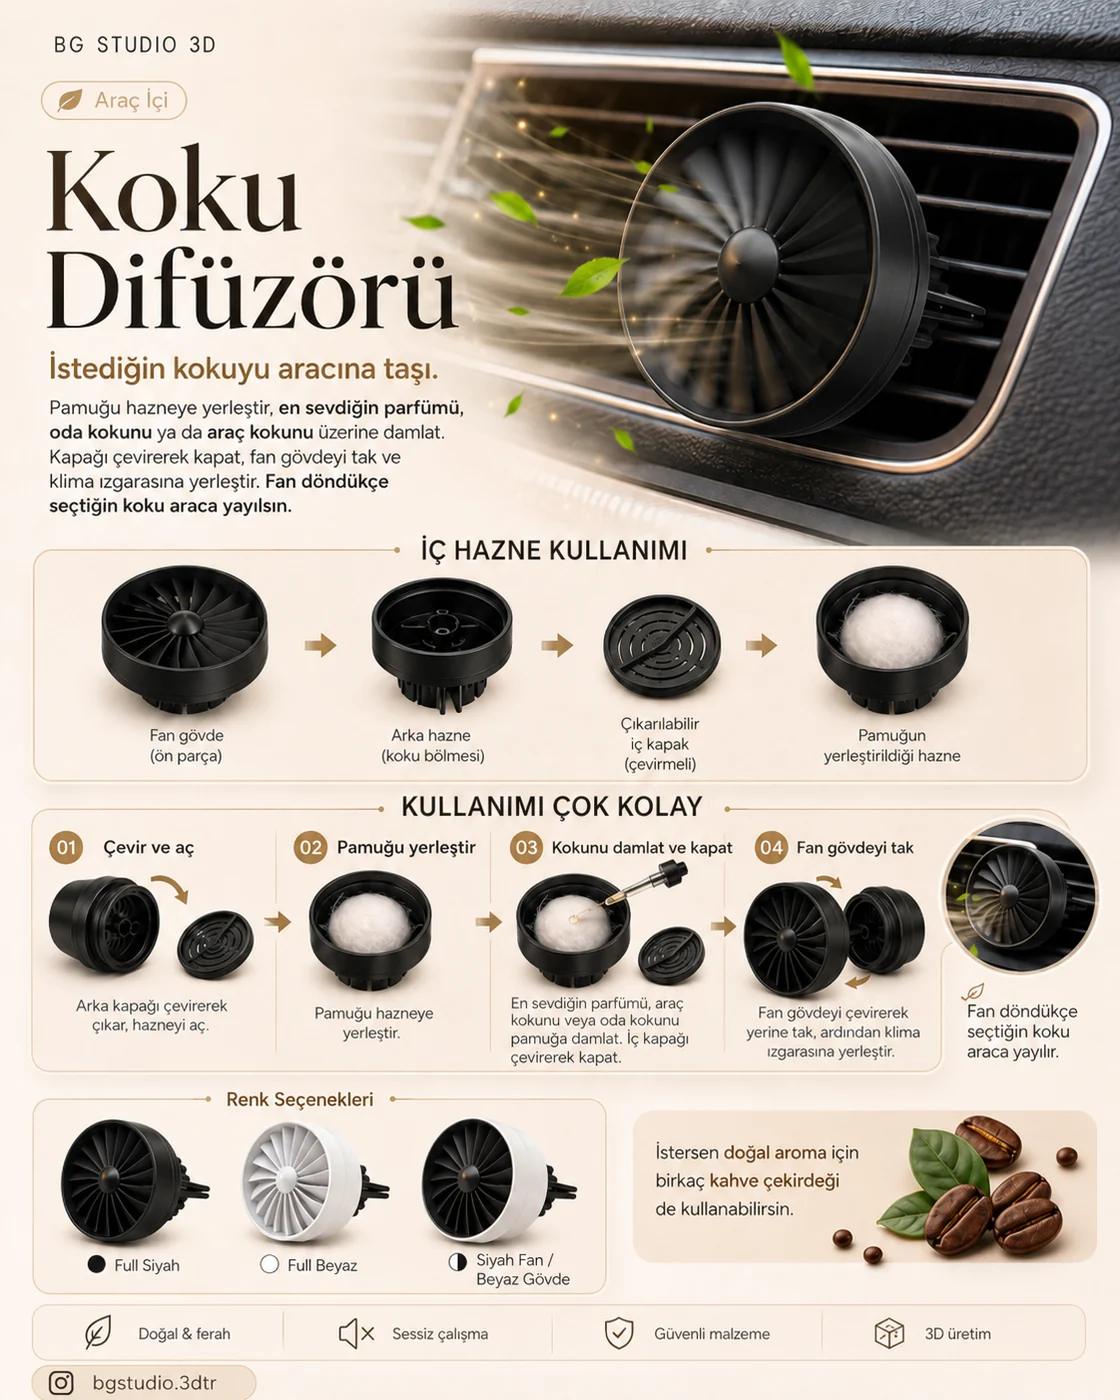
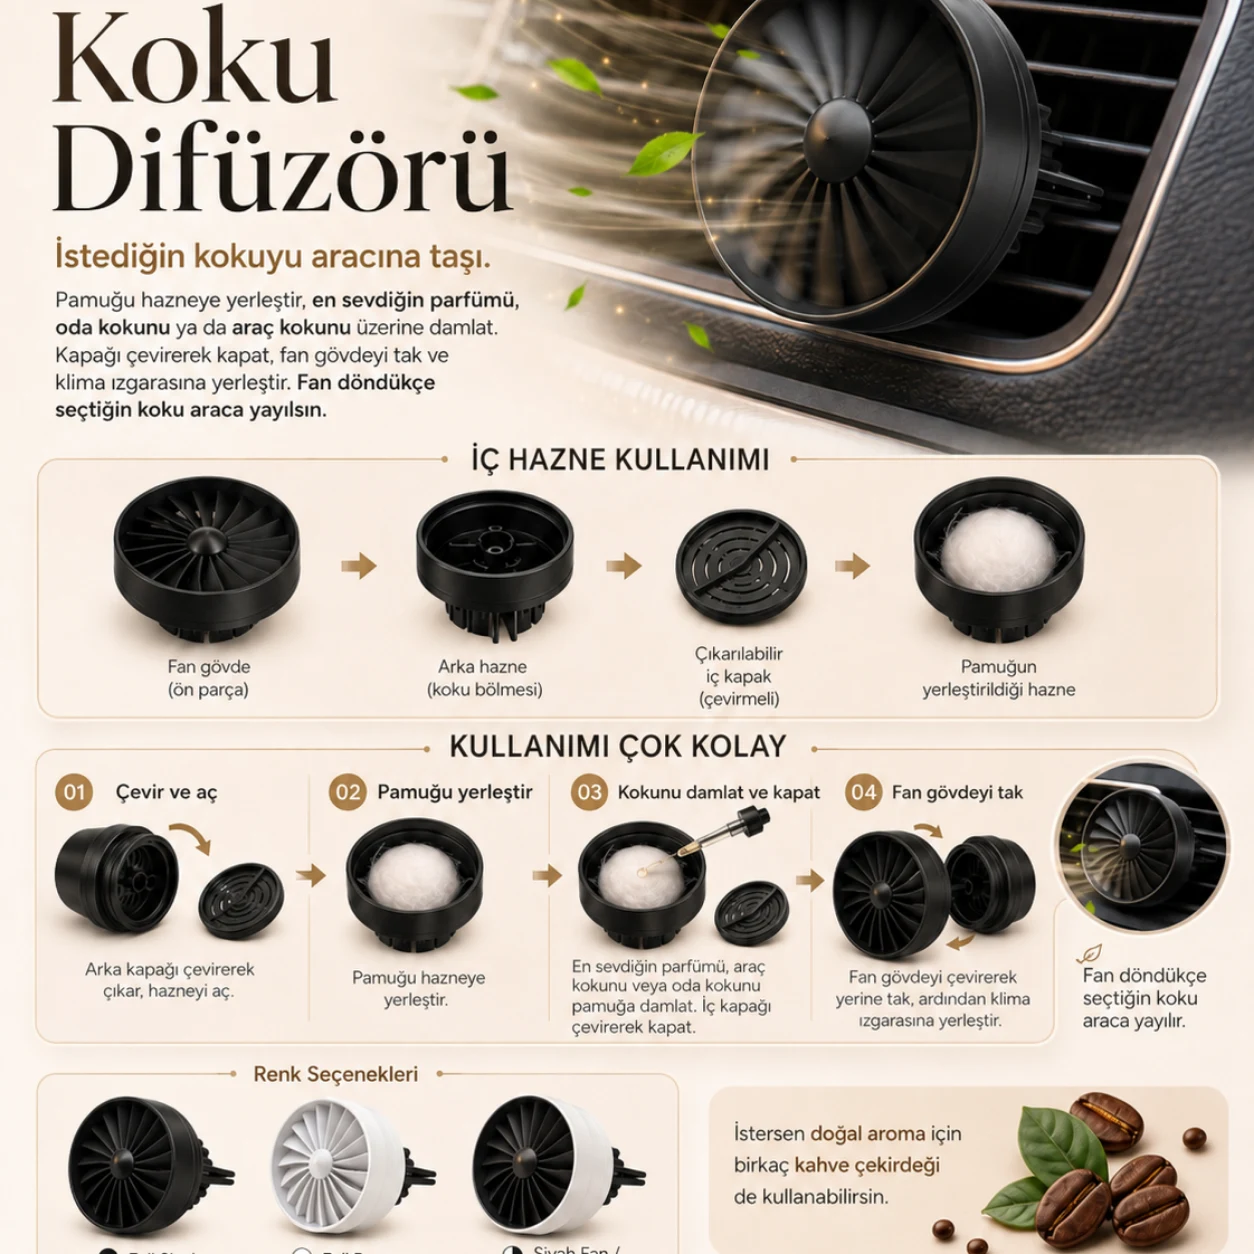
a

diff --git a/urunler/arac-koku-difuzoru/index.html b/urunler/arac-koku-difuzoru/index.html
@@ -14,7 +14,7 @@
 </head><body><a class="skip-link" href="#main-content">İçeriğe geç</a>
 <header class="site-header" id="top"><div class="shell nav-shell"><a aria-label="BG Studio 3D ana sayfa" class="brand" href="../../"><span class="brand-monogram">BG</span><span class="brand-text"><strong>STUDIO</strong><small>3DTR</small></span></a><button aria-controls="primary-navigation" aria-expanded="false" aria-label="Menüyü aç" class="menu-toggle" type="button"><span></span><span></span></button><nav aria-label="Ana menü" class="main-nav" id="primary-navigation"><a aria-current="page" class="is-active" href="../../urunler/">Ürünler</a><a href="../../ozel-uretim/">Özel Üretim</a><a href="../../kurumsal/">Kurumsal</a><a href="../../nfc-qr/">NFC &amp; QR</a><a href="../../hakkimizda/">Hakkımızda</a><a href="../../iletisim/">İletişim</a><a class="arch-link" href="https://bgstudio.com.tr" rel="noopener" target="_blank">Architecture ↗</a><a class="nav-cta" href="https://wa.me/905302466903" rel="noopener" target="_blank">WhatsApp</a></nav></div></header>
 
-<main id="main-content"><section class="product-detail shell"><div class="breadcrumb"><a href="../../">Ana Sayfa</a><span>/</span><a href="../">Ürünler</a><span>/</span><span>Araç Koku Difüzörü</span></div><div class="product-detail-grid"><div class="product-gallery"><div aria-label="Seçili ürün görselini büyüt" class="gallery-stage zoomable-media" data-gallery-stage="" role="button" tabindex="0"><img alt="Araç Koku Difüzörü" data-gallery-main="" decoding="async" height="760" src="../../assets/images/products/arac-koku-difuzoru.webp" width="1000"/></div><div aria-label="Ürün görselleri" class="gallery-thumbs"><button aria-label="Ürün görselini göster" aria-pressed="true" class="gallery-thumb active" data-gallery-alt="Araç Koku Difüzörü" data-gallery-src="../../assets/images/products/arac-koku-difuzoru.webp" type="button"><img alt="Araç Koku Difüzörü" decoding="async" height="760" loading="lazy" src="../../assets/images/products/arac-koku-difuzoru.webp" width="1000"/><span>Ürün</span></button><button aria-label="Afiş görselini göster" aria-pressed="false" class="gallery-thumb" data-gallery-alt="Araç Koku Difüzörü ürün afişi" data-gallery-src="../../assets/images/posters/arac-koku-difuzoru.webp" type="button"><img alt="Araç Koku Difüzörü ürün afişi" decoding="async" height="1400" loading="lazy" src="../../assets/images/posters/arac-koku-difuzoru.webp" width="1120"/><span>Afiş</span></button></div><p class="gallery-hint">Görseli büyütmek için ana görsele tıkla.</p></div>
+<main id="main-content"><section class="product-detail shell"><div class="breadcrumb"><a href="../../">Ana Sayfa</a><span>/</span><a href="../">Ürünler</a><span>/</span><span>Araç Koku Difüzörü</span></div><div class="product-detail-grid"><div class="product-gallery"><div aria-label="Seçili ürün görselini büyüt" class="gallery-stage zoomable-media" data-gallery-stage="" role="button" tabindex="0"><img alt="Araç Koku Difüzörü" data-gallery-main="" decoding="async" height="760" src="../../assets/images/products/arac-koku-difuzoru.webp" width="1000"/></div><div aria-label="Ürün görselleri" class="gallery-thumbs"><button aria-label="Ürün görselini göster" aria-pressed="true" class="gallery-thumb active" data-gallery-alt="Araç Koku Difüzörü" data-gallery-src="../../assets/images/products/arac-koku-difuzoru.webp" type="button"><img alt="Araç Koku Difüzörü" decoding="async" height="760" loading="lazy" src="../../assets/images/products/arac-koku-difuzoru.webp" width="1000"/><span>Ürün</span></button><button aria-label="Afiş görselini göster" aria-pressed="false" class="gallery-thumb" data-gallery-alt="Araç Koku Difüzörü ürün afişi" data-gallery-src="../../assets/images/posters/arac-koku-difuzoru.webp" type="button"><img alt="Araç Koku Difüzörü ürün afişi" decoding="async" height="1254" loading="lazy" src="../../assets/images/posters/arac-koku-difuzoru.webp" width="1254"/><span>Afiş</span></button></div><p class="gallery-hint">Görseli büyütmek için ana görsele tıkla.</p></div>
 <div class="product-info"><p class="eyebrow">FONKSIYONEL</p><h1>Araç Koku Difüzörü</h1><p class="product-lead">Pamuk haznesine parfüm, oda kokusu veya araç kokusu damlatılarak kullanılan; fan döndükçe kokuyu araç içine yaymaya yardımcı olan 3D baskı difüzör.</p><div class="price-block"><small>Fiyat</small><strong>239 TL’den</strong></div><div class="order-configurator" data-order-config="" data-product-name="Araç Koku Difüzörü" data-product-price="239 TL’den"><div class="order-config-head"><strong>Siparişini hazırla</strong><span>Seçimini yap, mesajı hazır gönder.</span></div><div class="order-controls"><label class="order-field"><span>Seçenek</span><select aria-label="Ürün seçeneği" data-order-option=""><option value="Full Siyah">Full Siyah</option><option value="Full Beyaz">Full Beyaz</option><option value="Siyah Fan / Beyaz Gövde">Siyah Fan / Beyaz Gövde</option></select></label><div class="order-field"><span>Adet</span><div class="qty-stepper"><button aria-label="Adedi azalt" data-qty-minus="" type="button">−</button><input aria-label="Adet" data-order-qty="" max="99" min="1" type="number" value="1"/><button aria-label="Adedi artır" data-qty-plus="" type="button">+</button></div></div></div><label class="order-field order-note-field"><span>Not (isteğe bağlı)</span><input data-order-note="" maxlength="160" placeholder="Örn. siyah renk, hediye olacak…" type="text"/></label><div class="order-summary"><span>Seçim:</span><strong data-order-summary="">Full Siyah • 1 adet</strong></div><a class="primary-cta wide-cta smart-order-whatsapp" data-order-whatsapp="" href="#" rel="noopener" target="_blank">Seçimi WhatsApp’tan gönder ↗</a><p class="order-local-note">Seçimin site üzerinde kaydedilmez; yalnızca WhatsApp mesajını hazırlamak için kullanılır.</p></div><div class="product-action-row share-only-row"><button class="secondary-cta share-product" data-share-title="Araç Koku Difüzörü" type="button">Ürün linkini paylaş</button></div><div class="detail-note">📍 Kuşadası elden teslim   •   📦 Türkiye geneli kargo</div><div class="product-facts"><div><small>Üretim</small><strong>3D baskı</strong></div><div><small>Teslim</small><strong>Kuşadası / kargo</strong></div><div><small>Seçenek</small><strong>Ürüne göre</strong></div><div><small>Sipariş</small><strong>WhatsApp</strong></div></div><div class="detail-section"><h2>Öne çıkan özellikler</h2><ul><li>Çıkarılabilir iç kapak</li><li>Pamuk haznesi</li><li>Klima ızgarasına montaj</li><li>Tek renk 239 TL / çift renk 249 TL</li></ul></div><div class="detail-section"><h2>Renk / seçenekler</h2><div class="option-tags"><button class="option-choice selected" data-order-choice="Full Siyah" type="button">Full Siyah</button><button class="option-choice" data-order-choice="Full Beyaz" type="button">Full Beyaz</button><button class="option-choice" data-order-choice="Siyah Fan / Beyaz Gövde" type="button">Siyah Fan / Beyaz Gövde</button></div></div><div class="detail-section"><h2>Üretim notu</h2><p>3D baskı ürünlerde katman dokusu üretim yönteminin doğal bir parçasıdır. Renk, adet ve kişiselleştirme seçenekleri sipariş öncesi netleştirilir.</p></div></div></div><div class="assurance-strip"><div><strong>Kuşadası</strong><span>Elden teslim</span></div><div><strong>Türkiye</strong><span>Kargo seçeneği</span></div><div><strong>Atölye</strong><span>3D baskı üretim</span></div><div><strong>Sipariş</strong><span>WhatsApp üzerinden</span></div></div></section>
 <section class="order-process shell"><div class="section-title"><div><p class="eyebrow">SİPARİŞ SÜRECİ</p><h2>Nasıl ilerliyoruz?</h2></div></div><div class="order-steps"><article class="order-step"><span>01</span><h3>Ürünü seç</h3><p>Renk, adet ve varsa kişiselleştirme isteğini bize ilet.</p></article><article class="order-step"><span>02</span><h3>Detayları netleştir</h3><p>Üretim seçeneği ve teslim/kargo detaylarını sipariş öncesi netleştir.</p></article><article class="order-step"><span>03</span><h3>Üretim</h3><p>Ürün atölyede 3D baskı ile hazırlanır ve kontrol edilir.</p></article><article class="order-step"><span>04</span><h3>Teslim</h3><p>Kuşadası elden teslim veya uygun kargo seçeneğiyle gönderim.</p></article></div></section>
 <section class="product-faq shell"><div class="section-title"><div><p class="eyebrow">SİPARİŞ ÖNCESİ</p><h2>Bilmen gerekenler.</h2></div></div><div class="faq"><details><summary>Renk seçebilir miyim?</summary><p>Mevcut filament seçenekleri ürüne göre değişir. Sipariş öncesinde uygun renkleri WhatsApp üzerinden birlikte netleştiriyoruz.</p></details><details><summary>Üretim ve teslim süresi ne kadar?</summary><p>Süre; ürün, adet ve atölye yoğunluğuna göre değişebilir. Güncel üretim ve teslim bilgisini sipariş öncesinde paylaşıyoruz.</p></details><details><summary>3D baskı katman izleri normal mi?</summary><p>Evet. Katman dokusu 3D baskı üretim yönteminin doğal karakteridir. Ürünler doğrudan baskı kalitesini koruyacak şekilde hazırlanır.</p></details></div></section>
